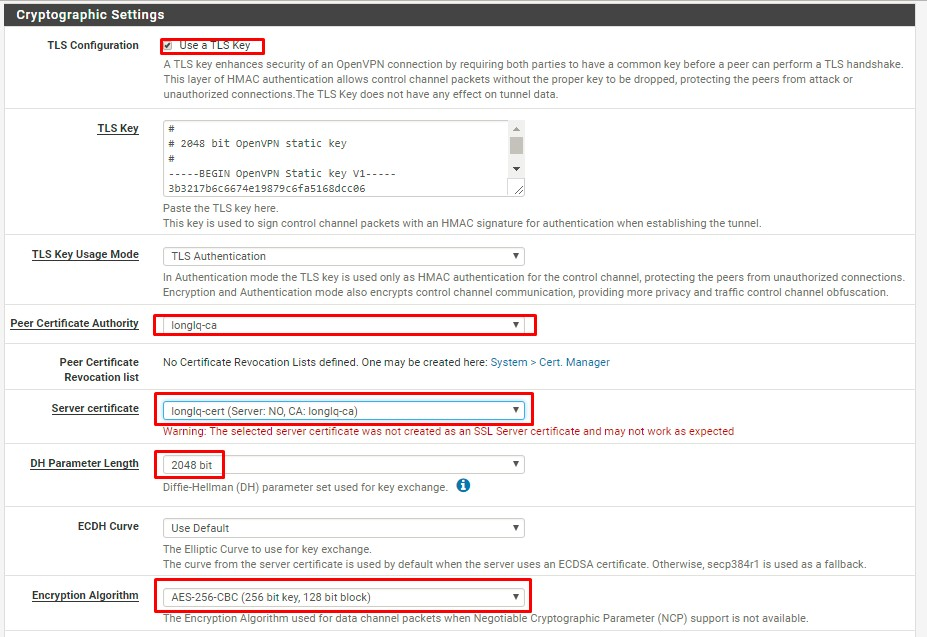
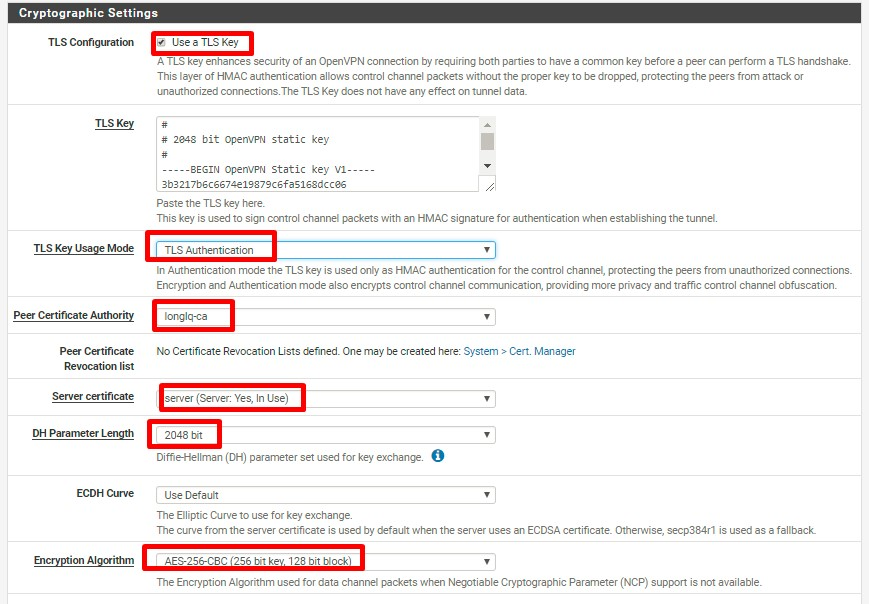
fix

Changed region(s): [[0.0, 0.0, 0.9942, 0.7748], [0.0311, 0.8046, 0.9321, 0.9834]]

diff --git a/docs/pfSense-OpenVPN-TAPmode.md b/docs/pfSense-OpenVPN-TAPmode.md
@@ -25,11 +25,15 @@ Bài lab thành công khi máy client nhận được IP của mạng LAN2 và c
 
 ### Tạo User và Certificate
 
-- Tại tab System/Certificate Manager, tạo CA mới cho user
+- Tại tab System/Certificate Manager/CA, tạo CA cho OpenVPN, CA này sẽ xác thực tất cả các certificate của server VPN và user VPN khi kết nối tới PFSense OpenVPN
+
  ![img](../images/ovpn_4.jpg)
  Sau đó chọn "Save", kết quả;
  ![img](../images/ovpn_5.jpg)
   
+- Tại tab System/Certificate Manager/Certificate, tạo certificate cho server VPN
+  ![img](../images/ovpn_5_1.jpg)
+
 - Tiếp tục tạo certificate cho user
 
   ![img](../images/ovpn_6.jpg)
@@ -38,10 +42,10 @@ Bài lab thành công khi máy client nhận được IP của mạng LAN2 và c
   ![img](../images/ovpn_3.jpg)
 
 - Edit user vừa tạo, add certificate cho user đó
-  ![img](../images/ovpn_16.jpg)
+  ![img](../images/ovpn_3_1.jpg)
 
 - Chọn cert vừa tạo ở trên
-  ![img](../images/ovpn_17.jpg)
+  ![img](../images/ovpn_3_2.jpg)
 
 ### Tạo VPN Server
 
@@ -61,8 +65,8 @@ Bài lab thành công khi máy client nhận được IP của mạng LAN2 và c
   ![img](../images/ovpn_7.jpg) 
 - Khai báo các thông tin về mã hóa
   - TLS Configuration: chọn sử dụng TLS key
-  - Peer Certificate Authority: chọn CA cho user được tạo
-  - Server certificate: chọn cert cho user được tạo
+  - Peer Certificate Authority: chọn CA cho hệ thống đã tạo trước đó (longlq-ca)
+  - Server certificate: chọn cert cho server được tạo (server)
   ![img](../images/ovpn_8.jpg) 
 - Khai báo các thông tin về tap
   - Bridge DHCP: cho phép client nhận IP trong LAN thông qua DHCP Server
